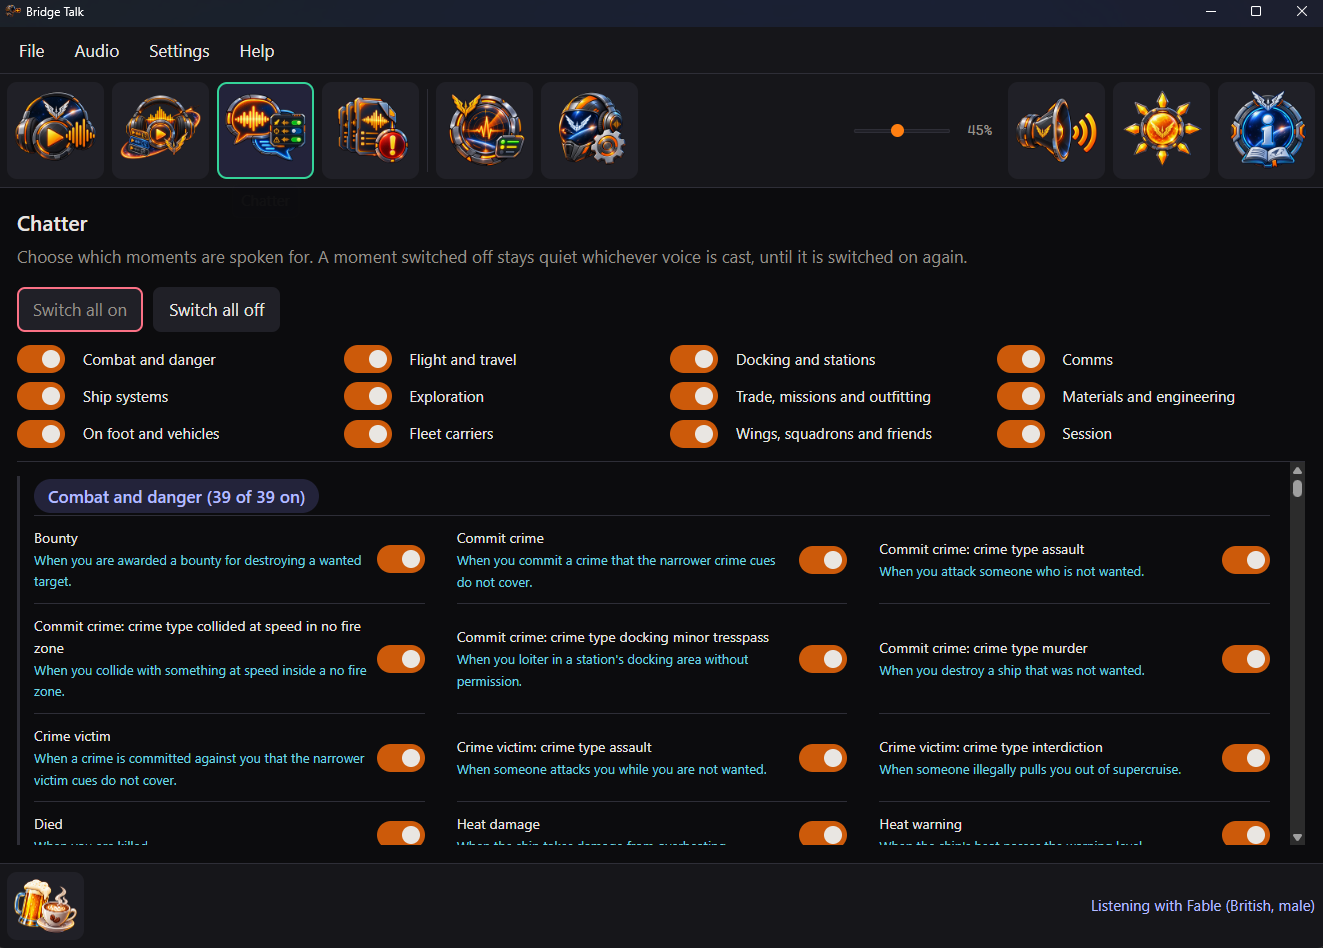
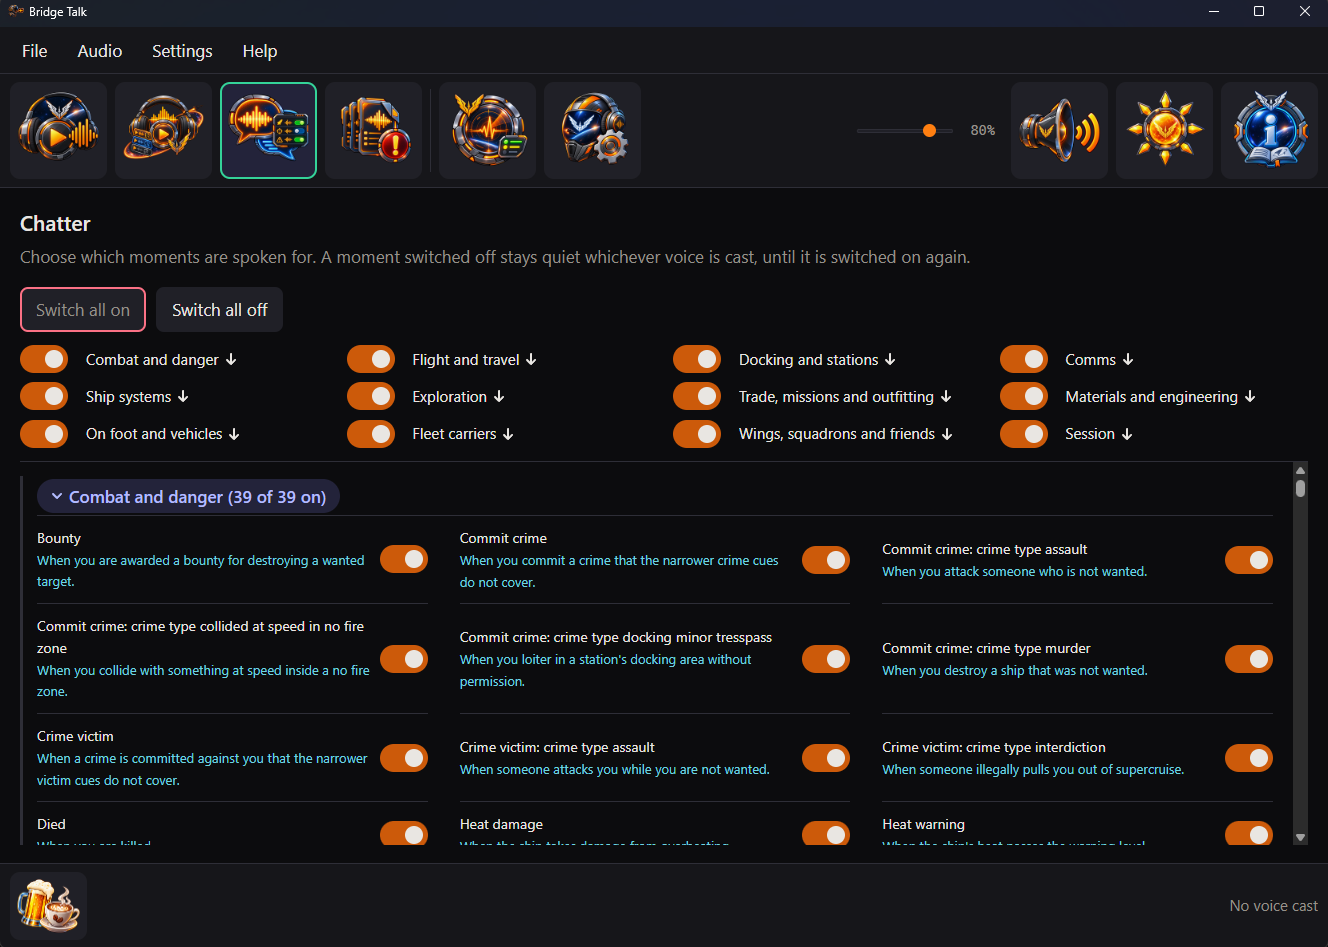
Show Chatter's arrows in the site screenshot
The Chatter screenshot now shows the arrow beside each category's name and the mark on an open heading; its alt text says so.

diff --git a/docs/index.html b/docs/index.html
@@ -316,7 +316,7 @@
           <figcaption>Find the lines still to record.</figcaption>
         </figure>
         <figure class="shot">
-          <img src="images/chatter.png" loading="lazy" decoding="async" alt="The Chatter pane, with Switch all on, Switch all off and a switch for each category above the moments of a category in three columns, each with a switch of its own">
+          <img src="images/chatter.png" loading="lazy" decoding="async" alt="The Chatter pane, with Switch all on, Switch all off and a switch for each category, each name carrying an arrow down to the list, above the open Combat and danger category with its moments in three columns, each with a switch of its own">
           <figcaption>Choose which moments it speaks for.</figcaption>
         </figure>
       </div>
